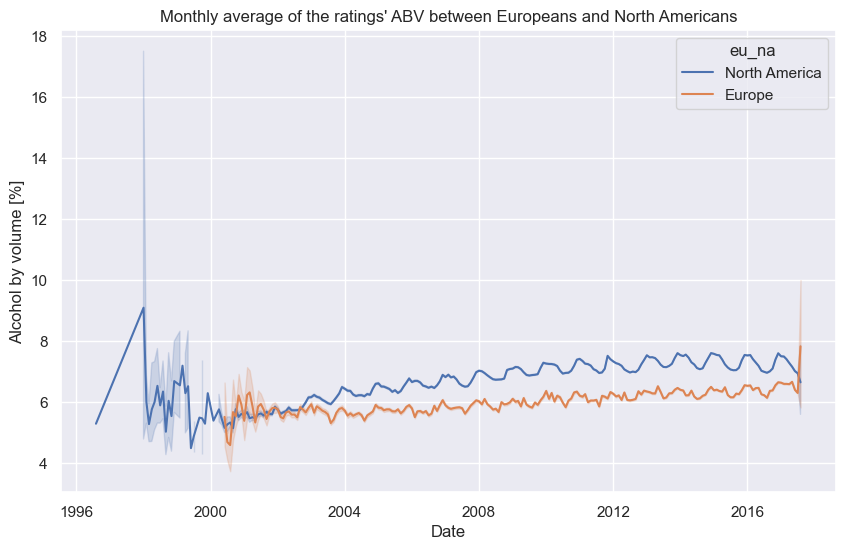
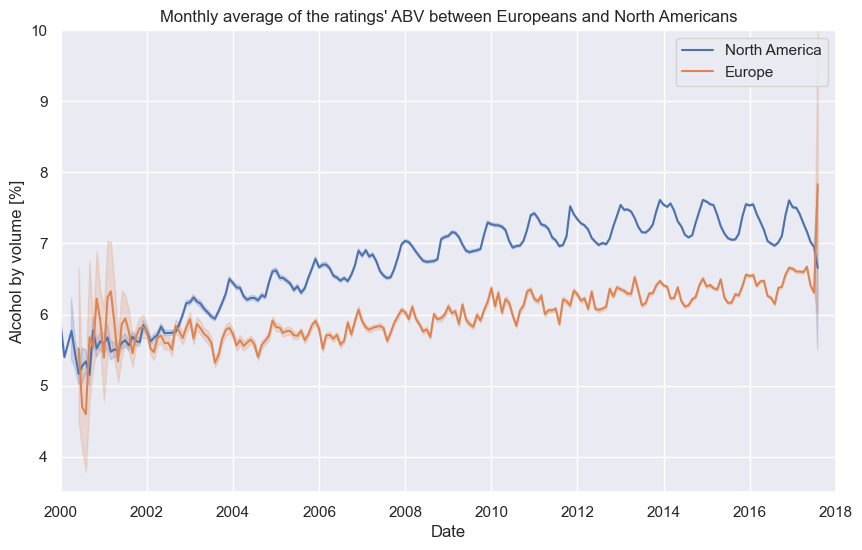
Changed pages and added plots

diff --git a/Seasonality.md b/Seasonality.md
@@ -4,23 +4,36 @@ layout: default
 
 # Seasonality
 
-**You must have heard of Oktoberfest** :thinking_face:
+### Why is there a seasonality trend betweeen Europe and North America?
 
-We suspect that the difference in the trendline of American and European ratings is due to this big event taking place in late September and the first weekend of October. Oktoberfest, is in fact the largest beer festival in the world!
+We will try to answer this question by first decomposing the time series for each region into seasonality and trend:
 
-In order to investigate this speculation, we will first decompose the time series for each region into seasonality and trend:
+![Seasonality; NA vs EU](./plots/seasonality_na_vs_eu.png)
 
-![Seasonality NA vs EU](./plots/seasonality_na_vs_eu.png)
-_North America has a clear seasonality pattern, but Europe shows two main peaks each year. If one of them is Oktoberfest, as we supposed, what could be the second one??_
+- _We observe that both regions have a clear seasonality pattern. But in Europe there is more noise present and there is second peak, which seems to be appearing in spring. What could be the reason for this?_
+- _The trend seems to be linearly increasing for both continents, even though it is clearly higher for NA users._
 
-Do you know this guy? :four_leaf_clover:
-<br/>
+We suspect that the difference in the seasonality pattern of American and European ratings might be due to big beer events that take place in Europe, such as Oktoberfest, which is in fact the world's largest beer festival and it takes in late September and the first weekend of October.
 
-<img src="./gifs/stpatrick.gif" width=300px height=300px alt="St. Patrick">
+To be sure, we will have a closer look at the trend and the seasonality (including residuals):
 
+![Seasonality](./plots/seasonality.png)
+_When keeping the residuals, the second peak in Europe looks more like a plateau, where North America seems to drop more quickly._
 
-**TODO: make image smaller**
+What could be the reason for the second peak??
+
+<br>
+
+![St. Patrick](./gifs/stpatrick.gif)
+
+<br>
 
 Have you ever heard of St. Patrick's Day?
 
 - It is an Irish traditional holiday, taking place in March.
+
+This might be the reason for the second peak appearing in spring!
+
+Maybe looking at the seasonality of beer styles will help us understand its cause better? -> [Beer style seasonality](/Beer%20style%20seasonality)
+
+To analyse the contributions and phases of the seasonality pattern more, we will further use a Fourier Analysis -> [FT seasonality analysis](/FT%20analysis)

diff --git a/Time evolution.md b/Time evolution.md
@@ -13,14 +13,27 @@ Let's take a look at this plot:
 ![ABV across time](./plots/abv_time.png)
 
 _It looks like it is true! There is a slight evolution of the ABV over time!_
-</br>_The graph clearly shows that generally North American consumers drink stronger beers on average than European._
+
+<br/>
+
+_The graph clearly shows that generally North American consumers drink stronger beers on average than European._
 
 That's not all! We discovered another very interesting thing!
-</br>Look at the shape of the trendline! It is periodical!
 
-This gives an insight for the seasonality of this magical drink. Even though it is more noticeable for North Americans, ABV has peaks every start of a new year and a low peak each summer, on both continents. But why is the shape of the trendline different for Europeans? Why is it not that clear, as the one for North Americans?
+<br/>
 
-If you want to know more -> take a look at the [Seasonality](/ada-welovepandas-webpage/Seasonality)
+Look at the shape of the time series! It looks periodical!
 
-**Note:**
-The fluctuations present in the first few years are not relevant for observation. It is possible that the reason behind this noise is the very few users of both BeerAdvocate and RateBeer at the beginning of their existence. As the popularity of this websites grew, and more users started to register, the curve started to take its representative shape.
+This gives an insight for the seasonality of this magical drink. Even though it is more noticable for North Americans, ABV has peaks every start of a new year and a low peak each summer, on both continents. 
+
+What about the styles? Do beer styles also have this characteristic?
+
+![ABV cross time; EU vs NA](./plots/abv_time_eu_na.png)
+
+_It turns out that the answer is yes! Some beer styles, like Specialty Beers, show a seasonal trend._
+
+But why is the shape of the time series different for European users? Why is it not that clear, as the one for North American users?
+
+If you want to know more -> take a look at the [Seasonality](/Seasonality)
+
+`Note 1: The fluctuations present in the first few years are not relevant for observation. It is possible that the reason behind this noise is the very few users of both BeerAdvocate and RateBeer at the begining of their existance. As the popularity of this websites grew, and more users started to register, the curve started to take its representative shape.`

diff --git a/README.md b/README.md
@@ -4,14 +4,15 @@
 the World’s Most Beloved Drink
 
 It is accepted worldwide that **beer** is the "most beloved drink", but who is leading the competition? 
-</br>We would say Europe and America are the biggest beer consumers among all continents.
+
+We would say Europe and America are the biggest beer consumers among all continents.
 
 But again, do Americans and Europeans drink the same beer types, or is there a beer attribute that makes a difference between this two big consumer groups?
-#### Let's investigate the beer preferences accross the Atlantic!
+#### Let's investigate the beer preferences across the Atlantic!
 
 ## Description
-Using a larga dataset, which provides beer ratings and reviews on beers from people all around the world, we will investigate the difference in beer preferences accross Americans and Europeans, and try to find the reason behind it! Embracing the 14 beer general styles provided, which differ in characteristics as ABV, appearance, aroma, palate and taste, we expect to find interesting results. 
+Using a large dataset, which provides beer ratings and reviews on beers from people all around the world, we will investigate the difference in beer preferences across Americans and Europeans, and try to find the reason behind it! Embracing the 14 beer general styles provided, which differ in characteristics as ABV, we expect to find interesting results. 
 
-We suspect that cultural dissimilarities among this two groups might lead to different inclinations when it comes to alcohol concentration in beers. Moreover, we will inspect the correlation of beer type with this inclination and we will deep into the evolution of the beer preferences between 2000 and 2017, hoping to find some difference among America and Europe.
+We suspect that cultural dissimilarities among these two groups might lead to different inclinations when it comes to alcohol concentration in beers. Moreover, we will inspect the correlation of beer type with this inclination and we will deep into the evolution of the beer preferences between 2000 and 2017, hoping to find differences between America and Europe.
 
 

diff --git a/Beer styles.md b/Beer styles.md
@@ -8,15 +8,16 @@ There are many specific beer styles, which have different alcohol content!
 
 Let's group them by general style and explore the ABV and users' preference correlation!
 
-![ABV by Style](./plots/style_abv.png)
+![ABV by beer style](./plots/style_abv.png)
 _We see that some beer styles are significantly stronger than others. If these styles are consumed more frequently on one of the two continents compared to the other, then this could explain some differences in the way ratings are correlated with ABV._
 
-![ABV count](./plots/style_count.png)
+![Count by beer style](./plots/style_count.png)
+![Avg_ABV](./plots/pie_chart.png)
 _Americans are dominating Europeans in the number of ratings per beer style... but..._
 
-![ABV by ratings](./plots/style_rating.png)
+![Rating by beer style](./plots/style_rating.png)
 _nevertheless, the average rating per beer style between the two groups is comparable. American ratings are always higher, except when it comes to Porters! It looks like Europeans like this beer as much as Americans do!_
 
 ### Conclusion
 
-Americans are huge fans of beer styles with high alcohol content (above 6%), such as **Stouts, Strong Ales, India Pale Ale, Porters, Bocks** and **Dark Ales**. We can see this from the number of ratings, as well as the high rating average. **Strong Ales, Stouts** and **India Pale Ale** have an average rating greater than 3.5 and the number of ratings for these beer styles is double, or even 4-5 times grater than the number of ratings Europeans submitted.
+Americans are huge fans of beer styles with high alcohol content (above 6%), such as **Stouts, Strong Ales, India Pale Ale, Porters, Bocks** and **Dark Ales**. We can see this from the number of ratings, as well as the high rating average. **Strong Ales, Stouts** and **India Pale Ale** have an average rating greater than 3.5 and the number of ratings for these beer styles is double, or even 4-5 times grater than the number of ratings Europeans submited.

diff --git a/Naive analysis.md b/Naive analysis.md
@@ -8,18 +8,16 @@ Moving straightforward to our research question:
 
 **Do Americans prefer beers with higher alcohol content (ABV) than Europeans?**
 
---->We investigate the average rating that EU and NA users give, for each ABV rounded percentage.
+---> We investigate the average rating that EU and NA users give, for each ABV rounded percentage.
 
 ![Average ABV](./plots/Avg_ABV.png)
 
-- _It seems like NA tend to give better ratings in general_
-- _All ratings are higher for beers with higher ABV_
-
-This plot gives some intuition for the answer, but in order to be sure, we must perform further statistical anaylsis -> [Statistical analysis](Statistical%20%20analysis.md)
+- _It seems like NA users tend to give better ratings in general, but we don't see a large difference_
+- _Ratings are higher for beers with higher ABV to a certain point (15%), but then drop for both continents_
 
 We also want to investigate if the number of ratings per rounded ABV percentage has to do something with the average rating per ABV?
 
-![ABV count](./plots/count_abv.png)
+![Count beers with certain ABV](./plots/count_abv.png)
 
 _Beers with ABV lower than 5% or greater than 15% have fewer number of ratings. If only few users rated, and graded them good, this results in better average rating for the specific ABV._
 
@@ -27,4 +25,5 @@ Another question arises out of curiosity:
 **Is there a correlation between preference and a specific beer style known for higher ABV?**
 
 Let's investigate this question:
-[Beer styles](/ada-welovepandas-webpage/Beer%20styles)
+
+[Beer styles](/Beer%20styles)

diff --git a/Data sources.md b/Data sources.md
@@ -12,6 +12,6 @@ The data we are working with was gathered from the following two websites about 
 #### From each website we used several datasets:
 
 - **users** (_American and European users only!_)
-- **ratings** (_`user_id`, `date`, `abv`, `rating`, `appearance`, `aroma`, `palate`, `taste`, `overall`_)
+- **ratings** (_`user_id`, `date`, `abv`, `rating`_)
 - **styles_matching** (_Generalising the `specific` beer style to its `general` style_)
 - **beers** (_`style` and `abv`_)

diff --git a/FT analysis.md b/FT analysis.md
@@ -1,0 +1,5 @@
+---
+layout: default
+---
+
+# Fourier transform analysis of seasonality

diff --git a/Statistical  analysis.md b/Statistical  analysis.md
@@ -1,0 +1,5 @@
+---
+layout: default
+---
+
+**TODO: add the statistical analysis**

diff --git a/Beer style seasonality.md b/Beer style seasonality.md
@@ -1,0 +1,5 @@
+---
+layout: default
+---
+
+# Beer style seasonality
